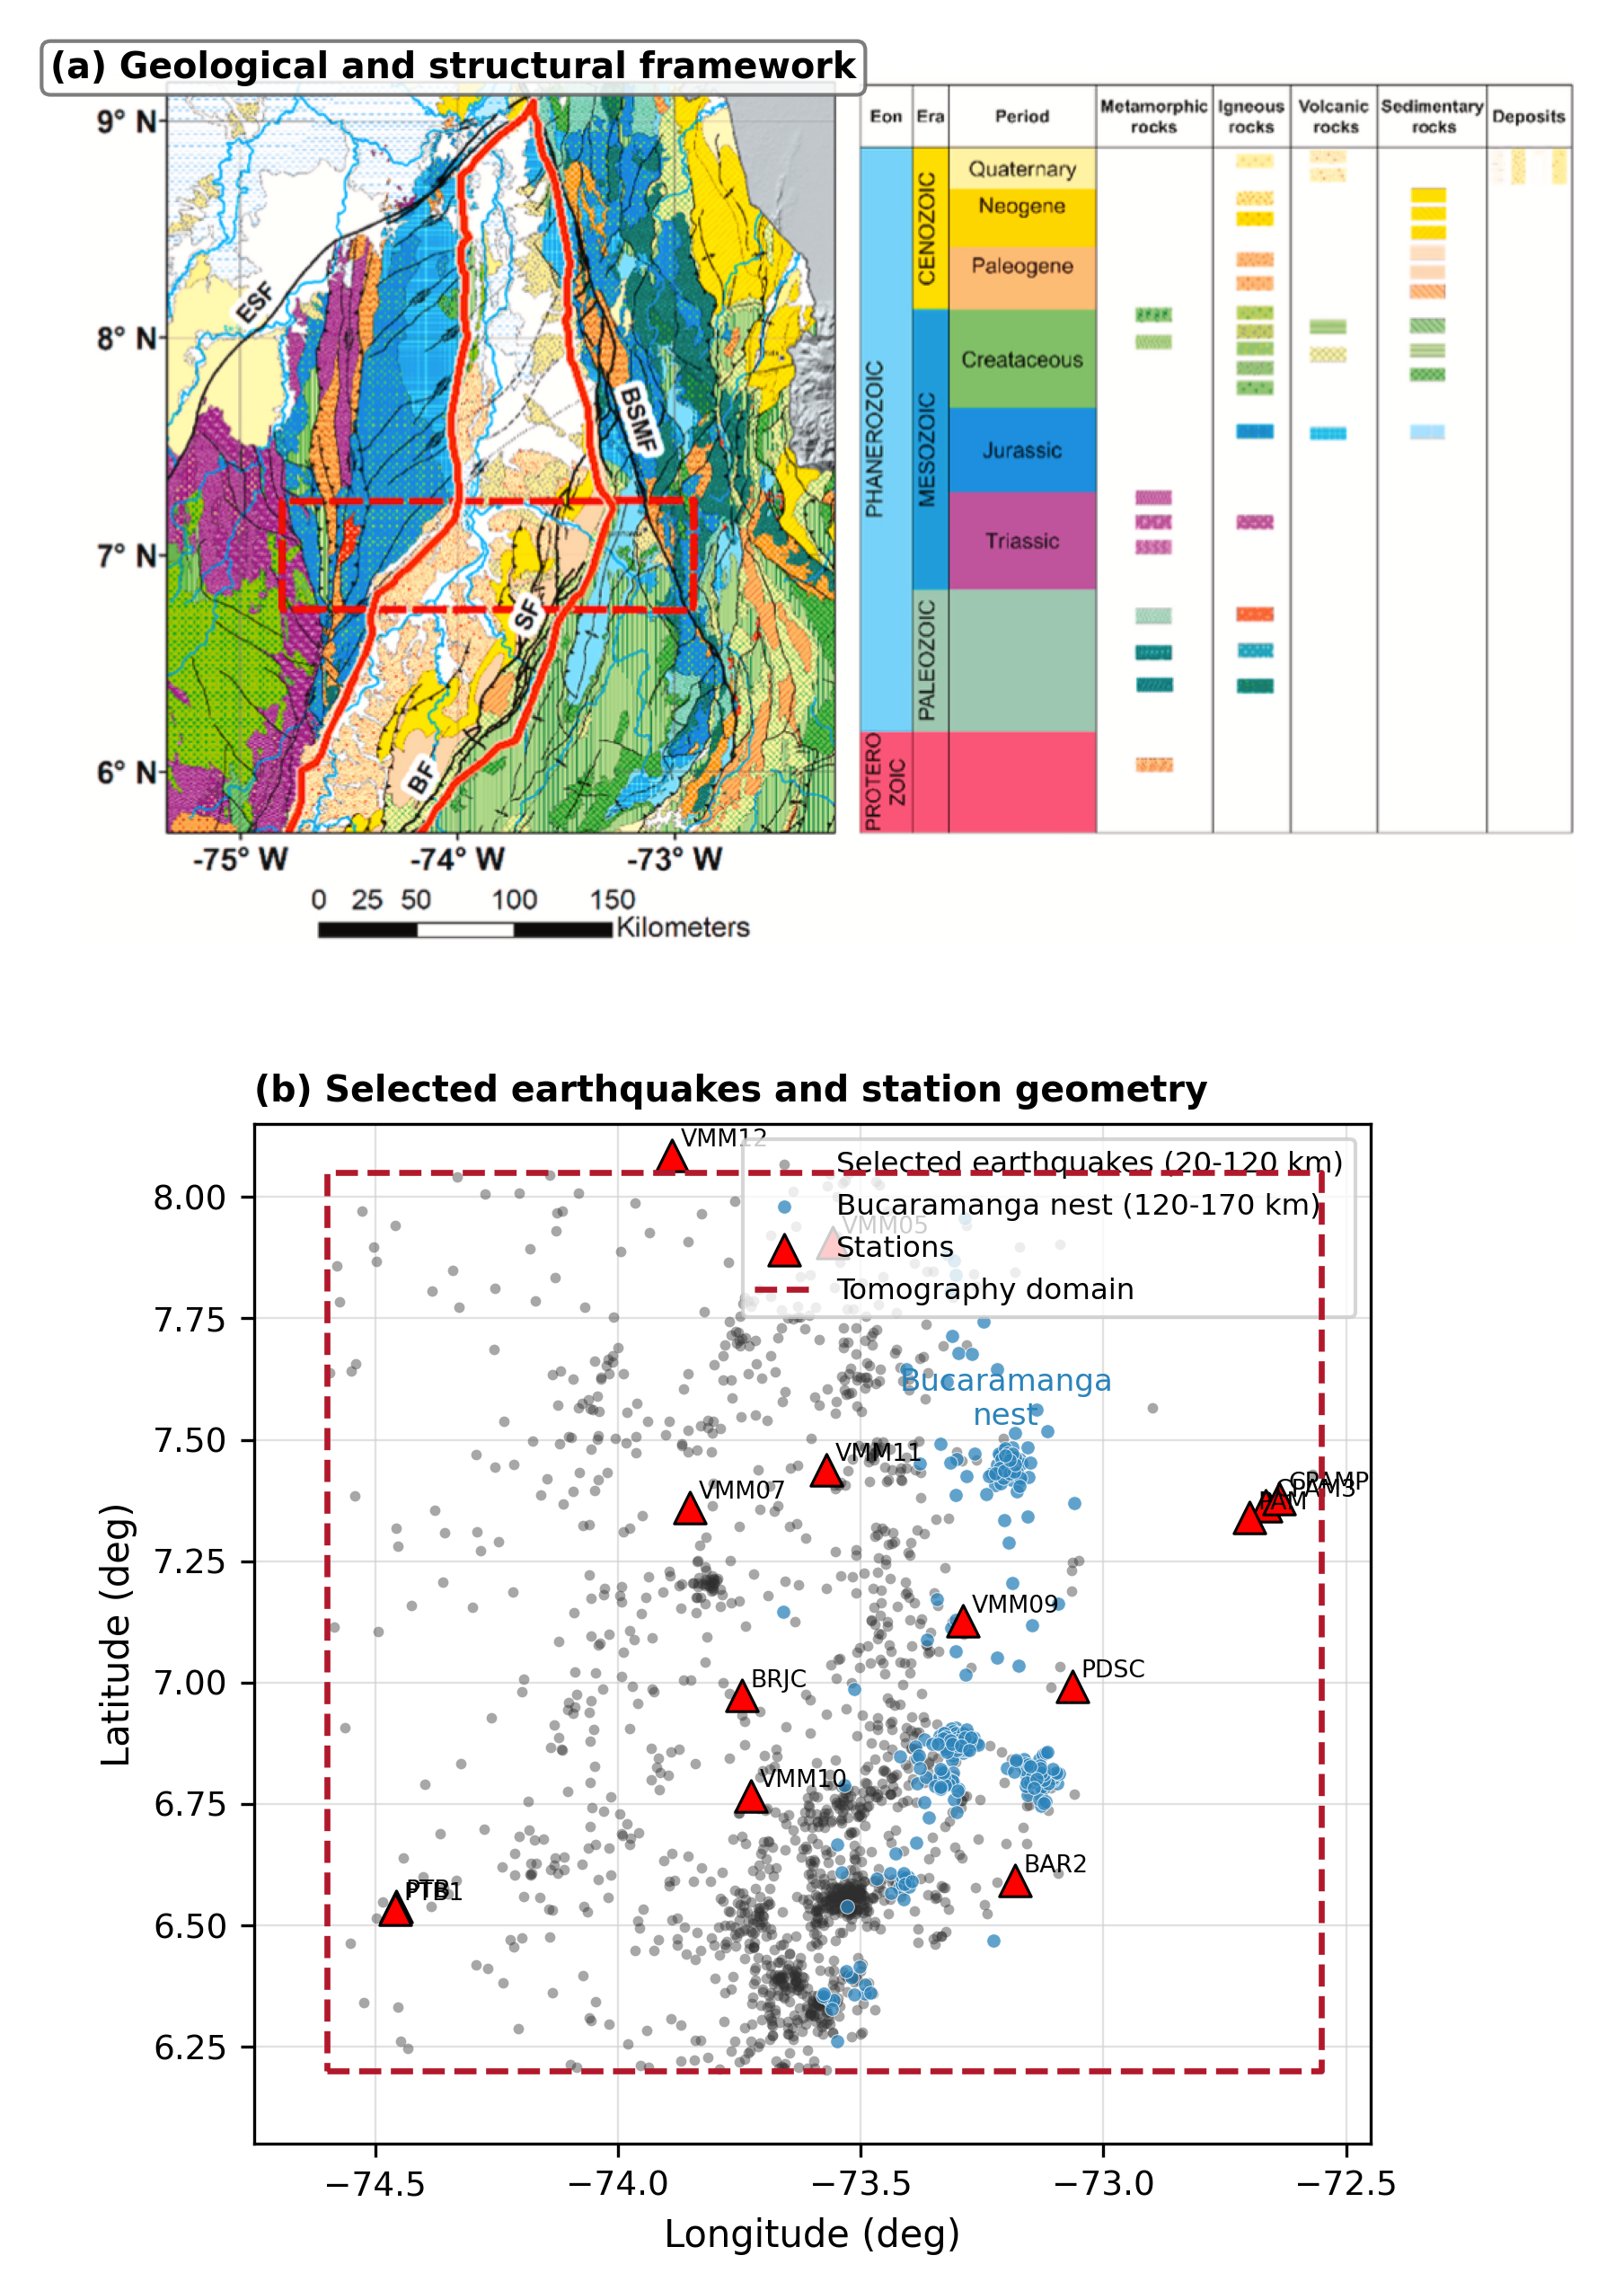
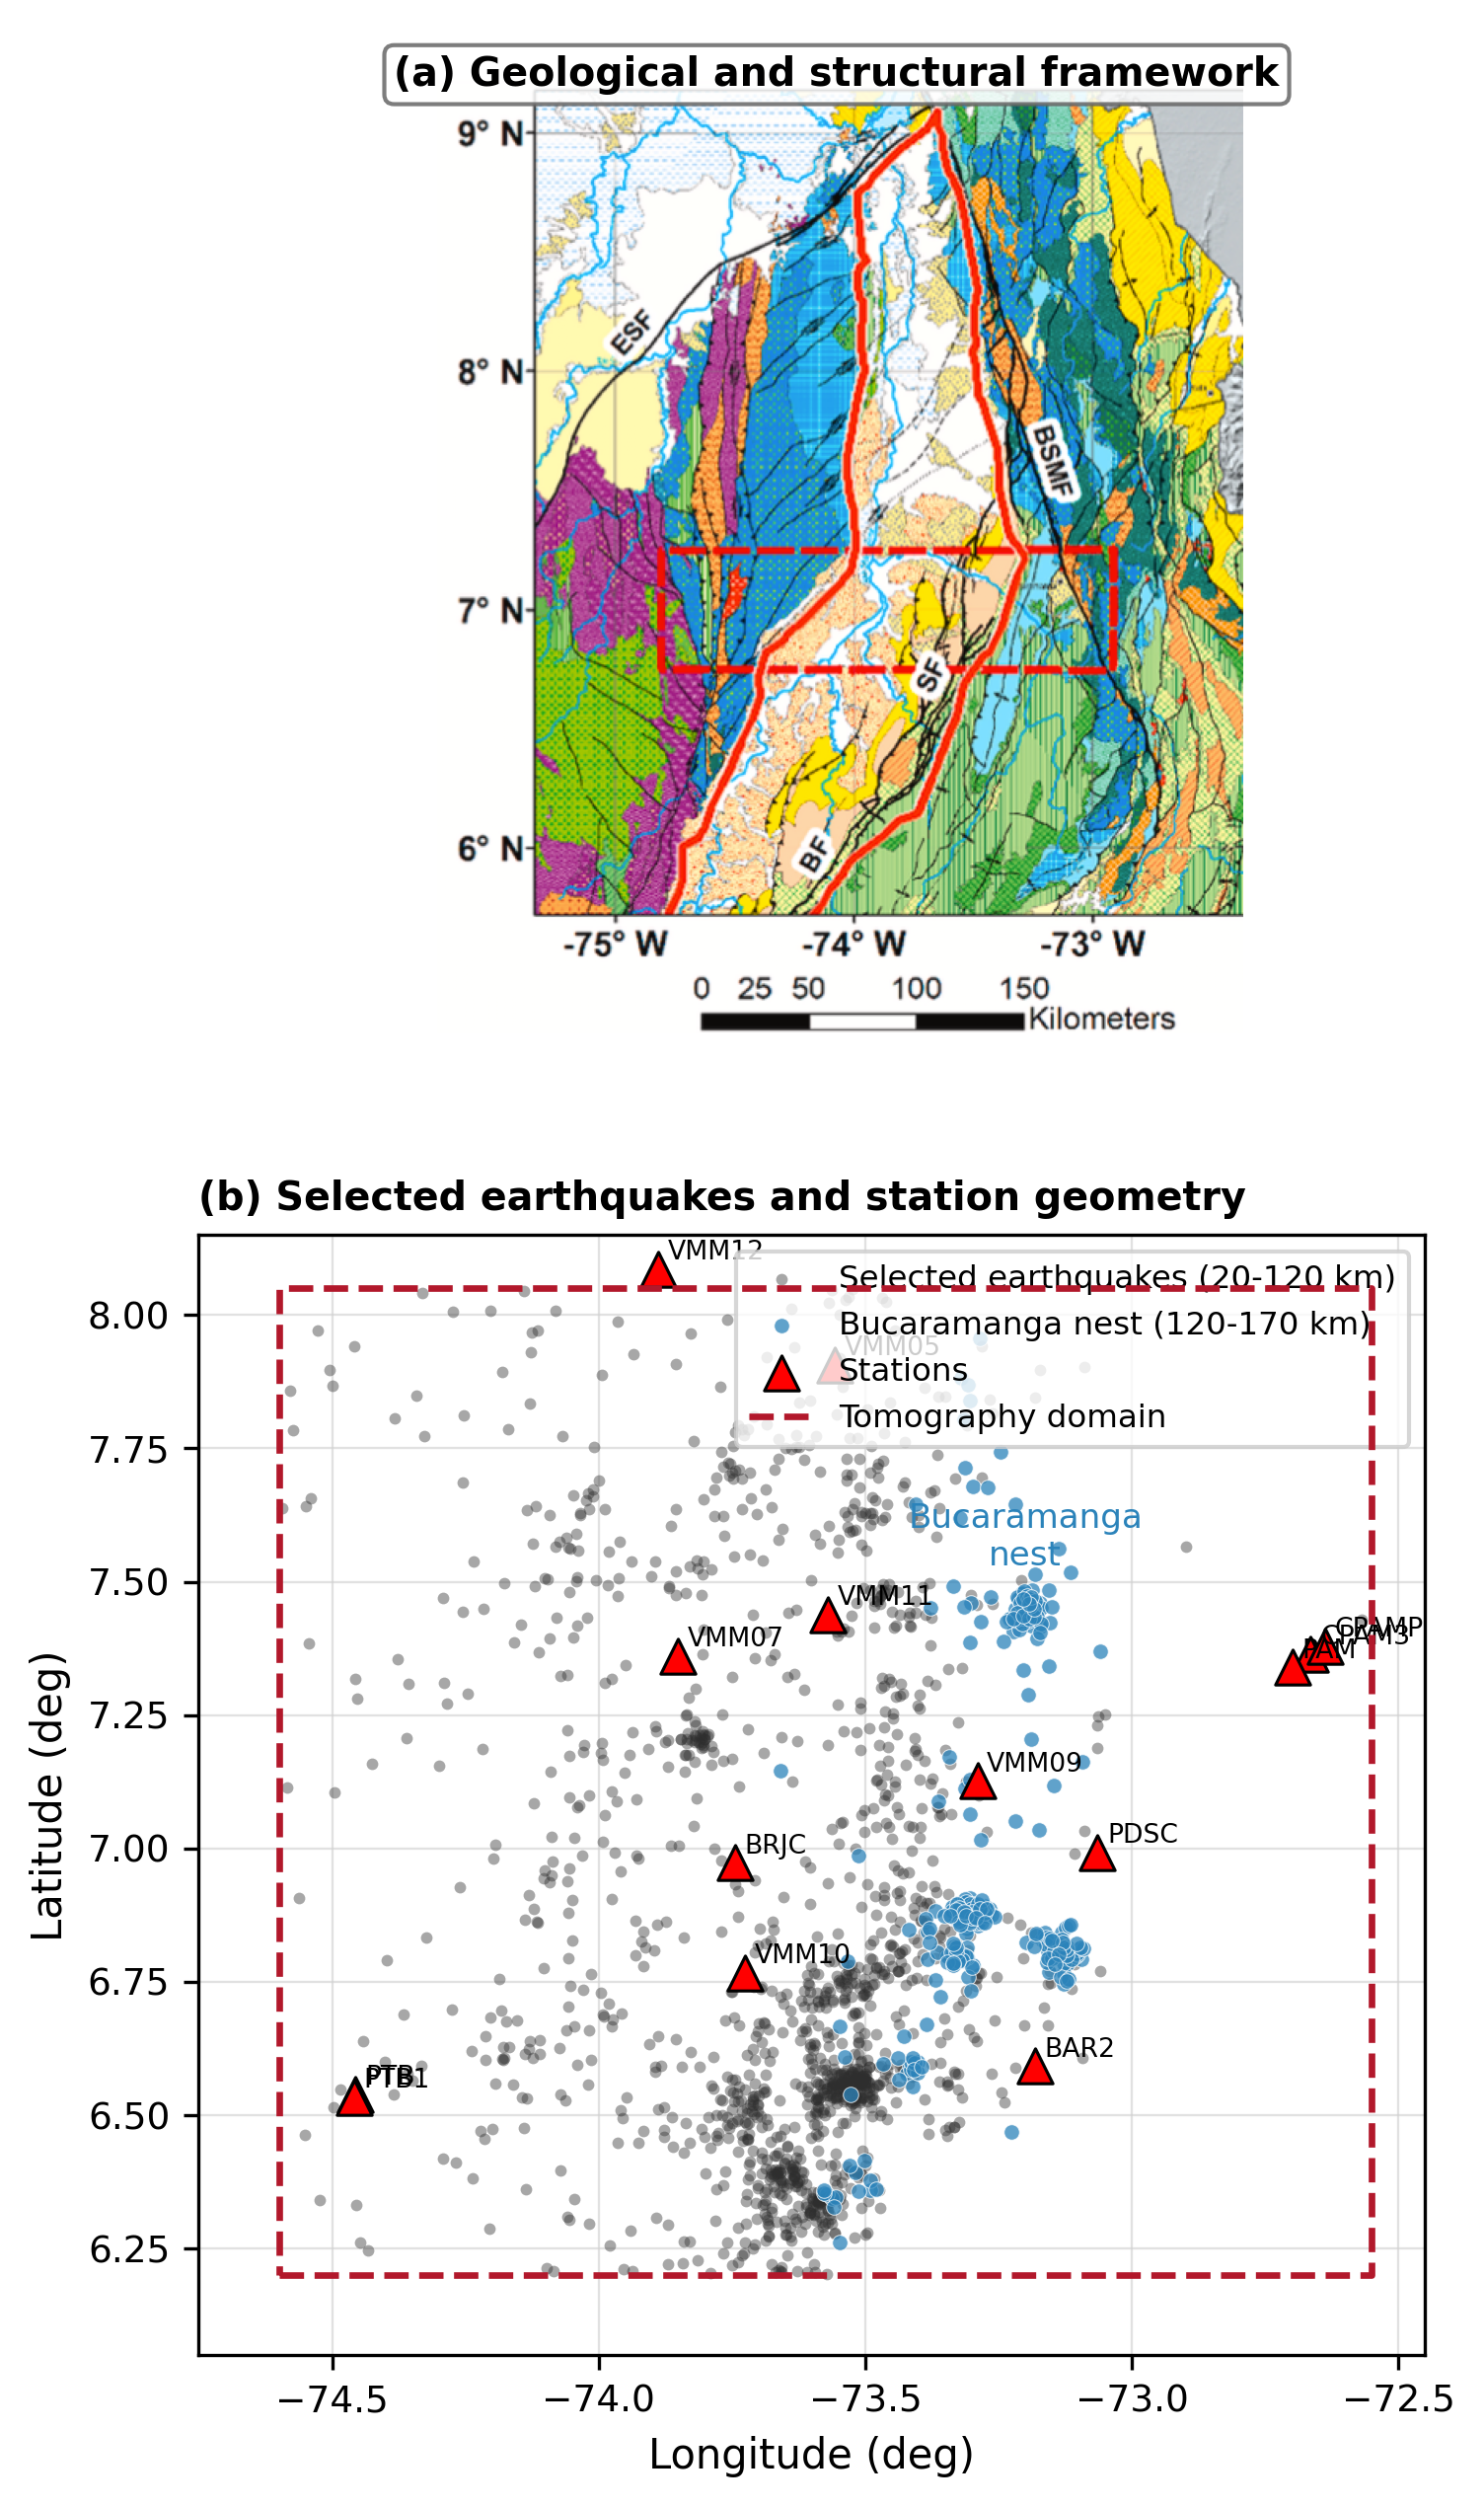
Polish JSAMES submission text and Figure 1

diff --git a/paper/joint_vp_relocation_sgc_new_events_q1_draft.tex b/paper/joint_vp_relocation_sgc_new_events_q1_draft.tex
@@ -39,7 +39,7 @@ Local earthquake tomography is a standard approach for linking arrival-time resi
 
 This study differs from previous MMV work in both method and structural target. Earlier studies established the regional seismicity, local magnitude scale, ambient-noise velocity structure, and detailed MMV velocity context \citep{Londono2019,LondonoRomero2017,Poveda2018,Londono2020Velocity}, while the Bucaramanga nest has been characterized as a persistent intermediate-depth seismicity cluster \citep{Zarifi2007,SepulvedaJaimes2018}. Here we use an independent 2022--2026 event subset, relocate the earthquakes with Fast-Marching travel times, solve for station static terms and P-wave velocity updates, and reconstruct a local Benioff surface that is evaluated quantitatively against Slab2 and Monte Carlo depth perturbations.
 
-This paper asks a focused structural question: can an independent SGC earthquake subset, relocated in an updated 3-D P-wave velocity model, constrain a local Nazca/Benioff geometry beneath the MMV at a scale suitable for corridor-scale tectonic interpretation? The answer cannot rest on RMS reduction alone. We therefore combine an alternating Fast-Marching relocation--tomography workflow with station static terms, checkerboard and spike tests, azimuthal-gap stratification, local grid-search uncertainty, regularization diagnostics, comparison with Slab2 \citep{Hayes2018Slab2}, and Monte Carlo uncertainty propagation for the reconstructed Benioff surface. The emphasis is deliberately corridor-scale: the objective is not to claim a complete Thurber-type simultaneous inversion, but to quantify how much of the local Nazca geometry is jointly supported by relocated seismicity and the recovered P-wave velocity field.
+This paper asks a focused structural question: can an independent SGC earthquake subset, relocated in an updated 3-D P-wave velocity model, constrain a local Nazca/Benioff geometry beneath the MMV at a resolution suitable for corridor-scale tectonic interpretation? The answer cannot rest on RMS reduction alone. We therefore combine an alternating Fast-Marching relocation--tomography workflow with station static terms, checkerboard and spike tests, azimuthal-gap stratification, local grid-search uncertainty, regularization diagnostics, comparison with Slab2 \citep{Hayes2018Slab2}, and Monte Carlo uncertainty propagation for the reconstructed Benioff surface. The emphasis is deliberately corridor-scale: the objective is not to claim a complete Thurber-type simultaneous inversion, but to quantify how much of the local Nazca geometry is jointly supported by relocated seismicity and the recovered P-wave velocity field.
 
 \section{Data and tectonic context}
 The input catalog was built from the SGC expert catalog for 2022--2026 within the MMV study area (longitude -74.6 to -72.55, latitude 6.2 to 8.05; Figure~\ref{fig:area} uses rounded plotting limits). To provide an independent test of a local velocity field derived from the same MMV domain, events previously used in the earlier MMV velocity--attenuation workflow were excluded. The selected dataset retains events with SGC catalog RMS $<1.0$ s, depths between 20 and 170 km, and at least four P picks. Within those same quality filters, 300 Bucaramanga-nest events between 120 and 170 km depth were prioritized so that the intermediate-depth part of the ray set samples the Nazca-related seismic zone; the nest events were not exempted from the RMS or pick-count criteria.
@@ -164,7 +164,7 @@ A minority of 238 events worsens relative to the SGC catalog RMS, and 25 events 
 \begin{figure}[p]
 \centering
 \includegraphics[width=\textwidth,height=0.75\textheight,keepaspectratio]{../figures/q1_fig1_geologic_context_and_data.png}
-\caption{Geological context and data geometry for the MMV relocation--tomography experiment. (a) Geological and structural framework of the Middle Magdalena Valley, including the main basin-bounding and intrabasin fault systems, adapted from the geological map used in the companion localization study and based on regional SGC compilations \citep{GomezTapias2019}. (b) Selected SGC earthquakes, Bucaramanga-nest events, stations, and tomography-domain limits used in the present alternating Fast-Marching relocation--tomography workflow. Bucaramanga-nest events were prioritized within the same RMS and pick-count filters to improve intermediate-depth sampling of the Nazca-related seismic zone.}
+\caption{Geological context and data geometry for the MMV relocation--tomography experiment. (a) Geological and structural framework of the Middle Magdalena Valley, including the main basin-bounding and intrabasin fault systems, adapted from regional SGC geological compilations \citep{GomezTapias2019} and previous structural interpretations of the MMV. (b) Selected SGC earthquakes, Bucaramanga-nest events, stations, and tomography-domain limits used in the present alternating Fast-Marching relocation--tomography workflow. Bucaramanga-nest events were prioritized within the same RMS and pick-count filters to improve intermediate-depth sampling of the Nazca-related seismic zone.}
 \label{fig:area}
 \end{figure}
 

diff --git a/codigos_finales/make_q1_geologic_context_figure.py b/codigos_finales/make_q1_geologic_context_figure.py
@@ -33,6 +33,9 @@ def main():
     ax1 = fig.add_subplot(gs[1, 0])
 
     img = plt.imread(GEOLOGY_MAP)
+    # Keep the geologic map and scale bar, but remove the detailed stratigraphic
+    # legend so the structural framework remains legible at manuscript size.
+    img = img[:, : int(img.shape[1] * 0.50)]
     ax0.imshow(img)
     ax0.set_axis_off()
     ax0.text(